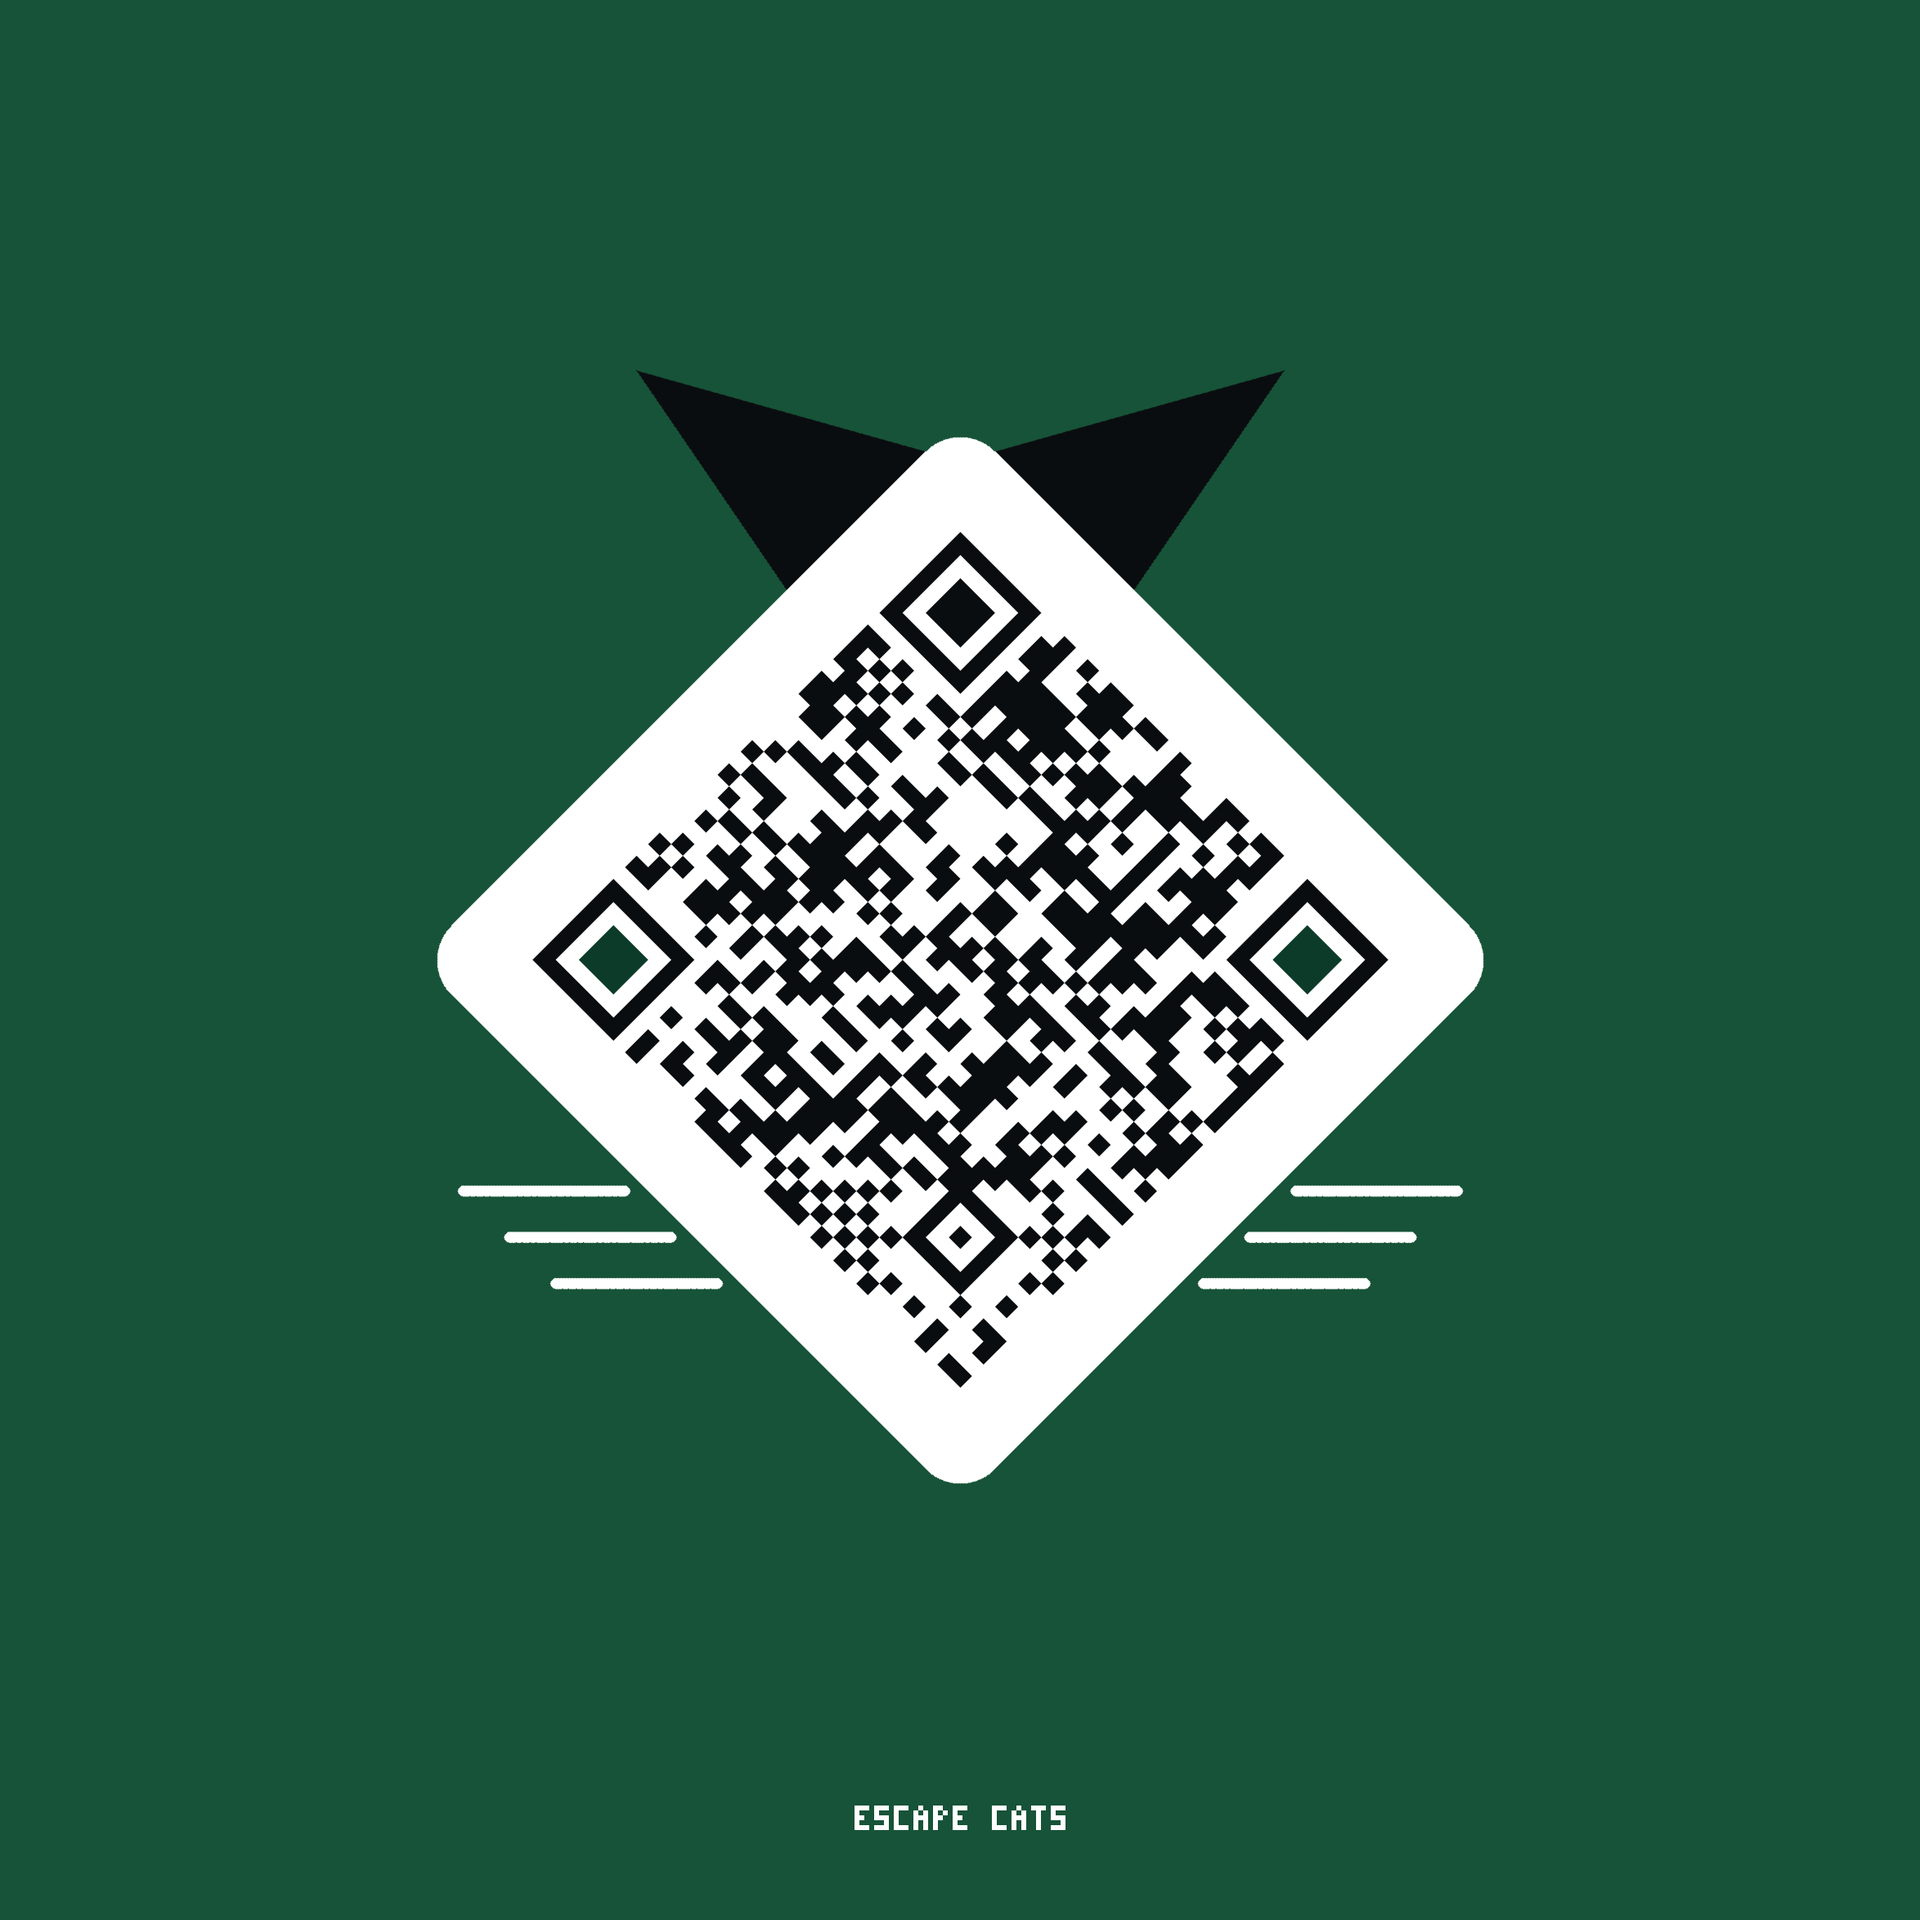
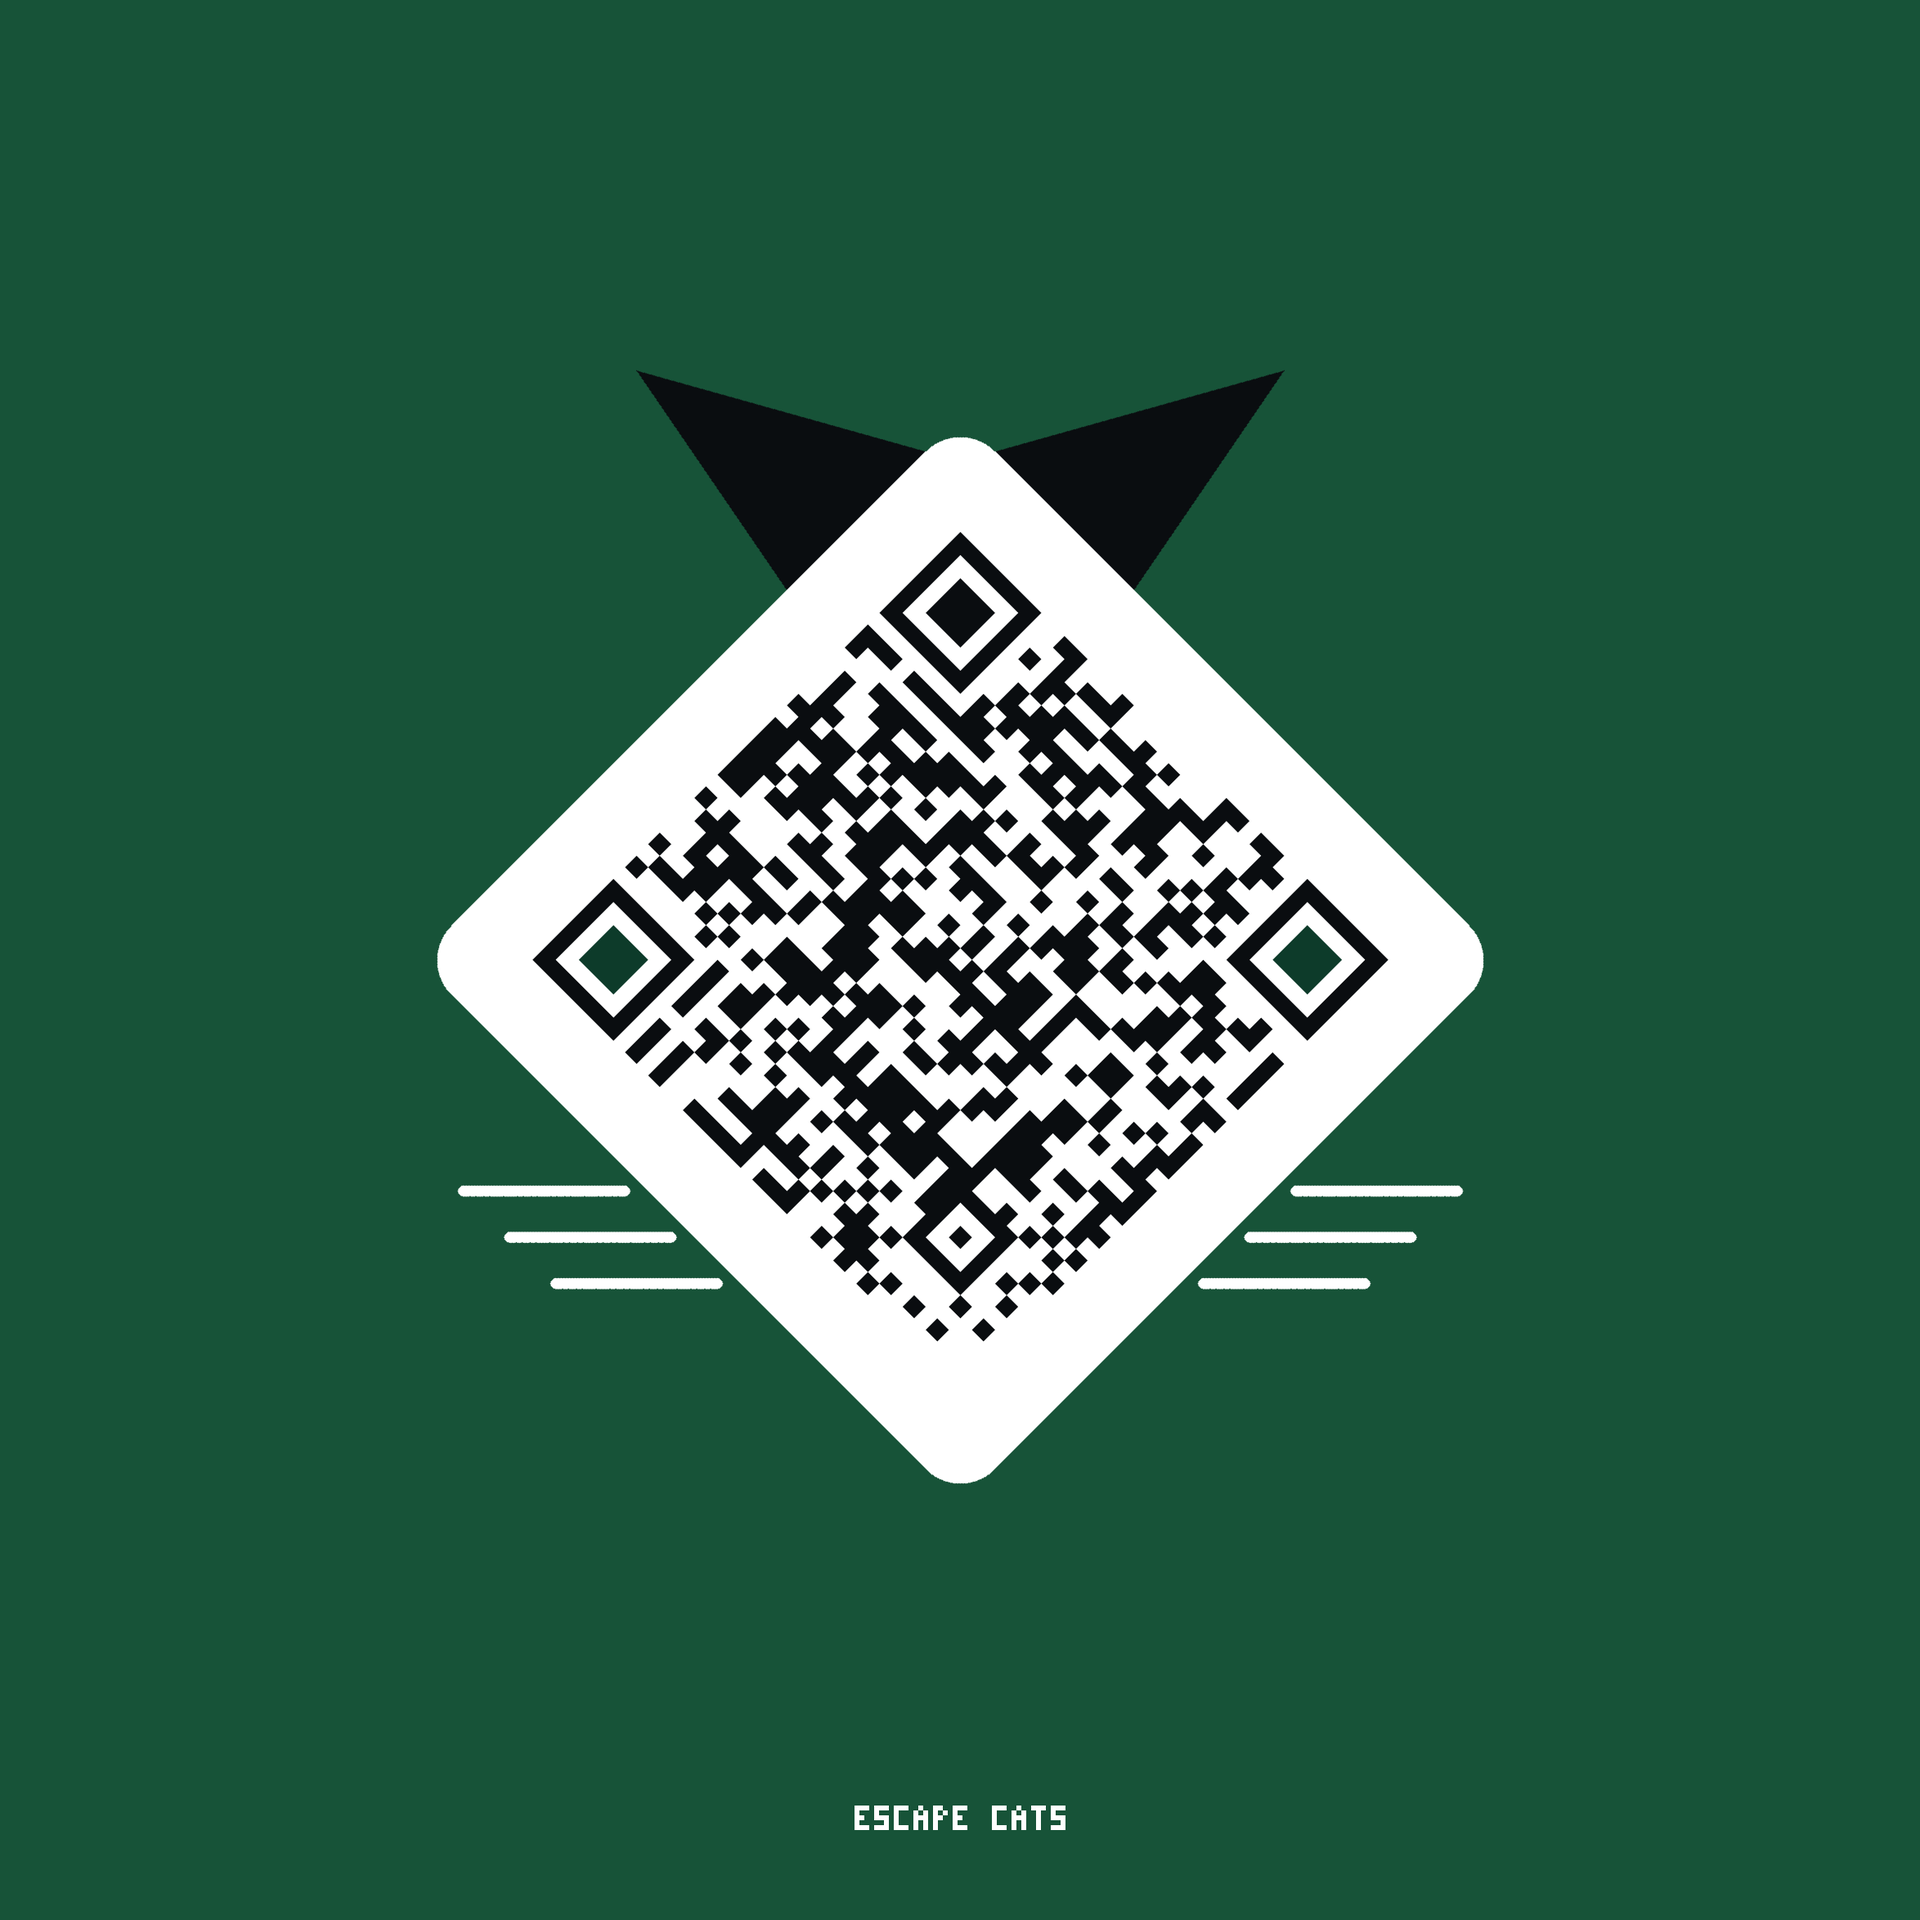
Piece 2: diamond cat — finder patterns as eyes
v5-L poster hung at 45 degrees: the two side finder patterns become the
eyes (emerald 3x3 irises), the alignment pattern at (30,30) becomes the
nose on a white muzzle field, black ears flank the top vertex outside
the card, and white whisker strokes continue onto the green field.
jsQR decodes the composed poster in both orientations at full and half
resolution; 3 codewords of RS headroom.

Claude-Session: https://claude.ai/code/session_0158kcuAWabeTm161BUonDiU

Changed region(s): [[0.342, 0.3109, 0.6529, 0.6529], [0.4664, 0.684, 0.5285, 0.7151]]

diff --git a/hex/wild-qr/out/diamond-cat-report.md b/hex/wild-qr/out/diamond-cat-report.md
@@ -1,13 +1,14 @@
 # Piece 2 — diamond cat — build report
 
-Generated by `build-02-diamond-cat.mjs` (reproducible; seeds noise=3076564310, flip=24108505).
+Generated by `build-02-diamond-cat.mjs` (reproducible; seeds noise=13270183, flip=20260720).
 
 ## Symbol
 - URL: `https://github.com/minigolf2000/cat-games`
-- Version 5, level L (37x37), mask 7 (chosen by pins-then-headroom).
+- Version 5, level L (37x37), mask 0 (chosen to minimise critical-feature misses, then maximise pins & headroom).
+- Critical-feature (mouth/whiskers/muzzle) misses: 2 of 76.
 - urlCase: schemehost (verified with allowSchemeHostCase).
-- Decoded (case-remixed, RFC-3986 equivalent): `HTTps://GiThuB.com/minigolf2000/cat-games`
-- Pins honored: 127/138 (92.0%), flips: 38, freeDim: 503.
+- Decoded (case-remixed, RFC-3986 equivalent): `HTtpS://GithuB.CoM/minigolf2000/cat-games`
+- Pins honored: 124/138 (89.9%), flips: 38, freeDim: 502.
 
 ## Per-block meter (honest validate() decode)
 - blk0: 10/13 codewords used — 3 headroom
